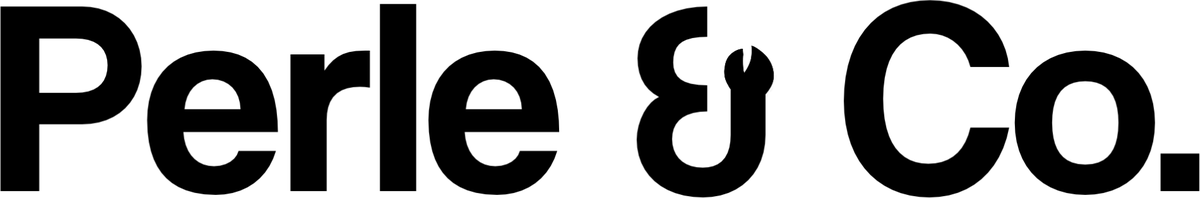
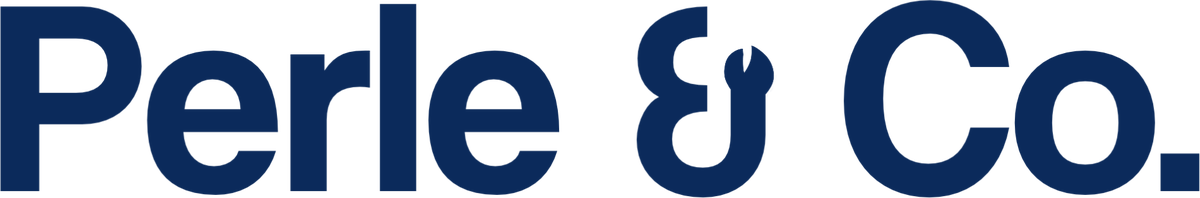
Brand mark in ink navy to match the blue scheme

diff --git a/components/art.tsx b/components/art.tsx
@@ -20,7 +20,7 @@ export function Mascot({ className = "", priority = false, deep = false }: { cla
   );
 }
 
-/** The "Perle & Co." brand mark. Black by default; `light` turns it white for dark backgrounds. */
+/** The "Perle & Co." brand mark. Ink navy (#0b2a5b) by default; `light` turns it white for dark backgrounds. */
 export function Wordmark({ className = "", light = false }: { className?: string; light?: boolean }) {
   return (
     <Image
